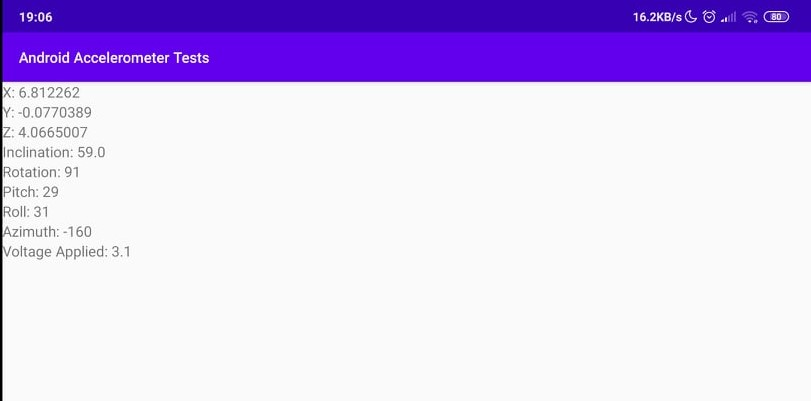
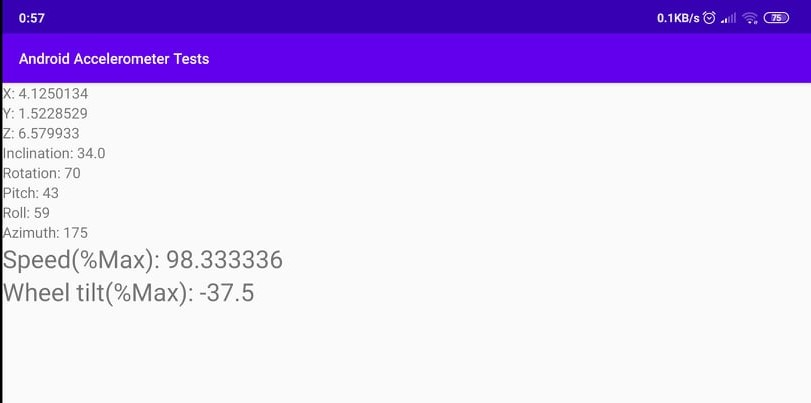
UPDT: Rot. sensor implem + tests

diff --git a/Deliverables/Final/tex/Chap/Testing/test_bluetooth_connection.tex b/Deliverables/Final/tex/Chap/Testing/test_bluetooth_connection.tex
@@ -28,14 +28,14 @@ After turning on Bluetooth on both android (ram) and PC devices (JOAO F), as dep
 %
 \begin{figure}[!ht]
 \centering
-\includegraphics[width=0.9\textwidth]{img/bt_app_pc.png}
-\caption{\label{fig:bt_app_pc}Smartphone as "ram" and PC as "JOAOF" with Bluetooth on}
+\includegraphics[width=0.7\textwidth]{img/bt_app_pc.png}
+\caption{\label{fig:bt_app_pc}Smartphone as "ram" and PC as "JOAOF" with Bluetooth enabled}
 \end{figure}
 %
 \begin{figure}[!ht]
 \centering
-\includegraphics[width=0.5\textwidth]{img/bt_intro_main.png}
-\caption{\label{fig:bt_intro_main}BTapp: Initial and main activities, accordingly}
+\includegraphics[width=0.7\textwidth]{img/bt_intro_main.png}
+\caption{\label{fig:bt_intro_main}BTapp: Initial and main activities, accordingly (Test UI)}
 \end{figure}
 %
 \begin{figure}[!ht]
@@ -48,37 +48,37 @@ To make an initial connection from square one, the smartphone should be discover
 %
 \begin{figure}[!ht]
 \centering
-\includegraphics[width=0.4\textwidth]{img/bt_con_scan_pair_suc.png}
+\includegraphics[width=0.5\textwidth]{img/bt_con_scan_pair_suc.png}
 \caption{\label{fig:bt_con_scan_pair_suc}BTapp and PC: Pressed Scan Devices button, target device pressed and paired successfull message on PC. A PIN number given by the PC must be inserted on app to conclude the pair phase}
 \end{figure}
 %
 \begin{figure}[!hbt]
 \centering
-\includegraphics[width=0.4\textwidth]{img/bt_failed_pair.png}
+\includegraphics[width=0.5\textwidth]{img/bt_failed_pair.png}
 \caption{\label{fig:bt_failed_pair}BTapp: Pair failed examples: Wrong pin number or already paired device}
 \end{figure}
 %
 \begin{figure}[!hbt]
 \centering
-\includegraphics[width=0.5\textwidth]{img/bt_sequence_connect.png}
+\includegraphics[width=0.7\textwidth]{img/bt_sequence_connect.png}
 \caption{\label{fig:bt_sequence_connect}BTapp: Connect phases: List devices pressed, target deviced pressed and successfull display of connection establish toast}
 \end{figure}
 %
 \begin{figure}[!hbt]
 \centering
-\includegraphics[width=0.5\textwidth]{img/bt_sendapp_recpc.png}
+\includegraphics[width=0.8\textwidth]{img/bt_sendapp_recpc.png}
 \caption{\label{fig:bt_sendapp_recpc}BTapp and PC BT server: Successfull message exchanged from android to pc and android echo}
 \end{figure}
 %
 \begin{figure}[!hbt]
 \centering
-\includegraphics[width=0.5\textwidth]{img/bt_sendPC_recAPP.png}
+\includegraphics[width=0.8\textwidth]{img/bt_sendPC_recAPP.png}
 \caption{\label{fig:bt_sendPC_recAPP}BTapp and PC BT server: Successfull message exchanged from pc to android}
 \end{figure}
 %
 \begin{figure}[!hbt]
 \centering
-\includegraphics[width=0.3\textwidth]{img/bt_resending_rereceiving.png}
+\includegraphics[width=0.4\textwidth]{img/bt_resending_rereceiving.png}
 \caption{\label{fig:bt_resending_rereceiving}BTapp: It's possible to resend and receive more than once}
 \end{figure}
 %
@@ -86,11 +86,11 @@ When on the connection setup phase, the scan button was clicked to show the PC t
 
 Lastly, after opening output log terminals to receive app messages on the personal computer virtual machine guest operative system, on the principal menu, in the Enter message section, the messages were typed and then sent via clicking the adjacent send button. The message was then echoed on the phone and conveyed to the target (JOAO F) device, where they were displayed. Figure \ref{fig:bt_sendapp_recpc} show app and PC terminal points of view. Regarding figure \ref{fig:bt_sendPC_recAPP}, the message was written on the terminal and received on the smartphone, respectively. Figure \ref{fig:bt_resending_rereceiving} display final state on the app log after resending a different message as well as obtaining another one via the same source. Note that the PC terminal images already depicts all messages exchanged and show the initial command configuration needed for the test to happen.
 
-On one hand, in the receiving terminal, the first command: \textit{$cd$} \textit{$/media/sf\_ze\_bt\_server$}
-changed the directory to where the server app is located. The second: \textit{$make$} \textit{$all$} \textit{$\&\&$ $./com\_ll$} compile all the source files and run \textit{$com\_ll$}.
+On one hand, in the receiving terminal, the first command:  \emph{cd} \emph{/media/sf\_ze\_bt\_server}
+changed the directory to where the server app is located. The second:  \emph{make all \&\& ./com\_ll} compile all the source files and run \emph{com\_ll}.
 
-On the other hand, in the sending terminal, the current directory was changed to \textit{\textit{$/dev$}} with the command: \textit{$cd$} \textit{$/dev$}
-to navigate to where virtual COM4 (ttyS3) so that messages could be sent through, as exemplified in the instruction: \textit{$echo$ $Msg$ $da$ $VM$} \textit{$> ttyS3$}. 
+On the other hand, in the sending terminal, the current directory was changed to \emph{/dev} with the command:  \emph{cd}  \emph{/dev}
+to navigate to where virtual COM4 (ttyS3) so that messages could be sent through, as exemplified in the instruction:  \emph{echo Msg da VM}  \emph{> ttyS3}. 
 %%% Local Variables:
 %%% mode: latex
 %%% TeX-master: "../../../dissertation"

diff --git a/Deliverables/Final/listing/rotAccess.java b/Deliverables/Final/listing/rotAccess.java
@@ -5,7 +5,7 @@ public class MainActivity extends AppCompatActivity implements SensorEventListen
     private SensorManager sensorManager;
     Sensor rot_sensor;
 
-    TextView x_val, y_val, z_val, inclination, rotation, pitch, roll, azimuth, voltage;
+    TextView x_val, y_val, z_val, inclination, rotation, pitch, roll, azimuth, voltage, wheel_t;
 
     @Override
     protected void onCreate(Bundle savedInstanceState) {
@@ -16,6 +16,7 @@ public class MainActivity extends AppCompatActivity implements SensorEventListen
         roll = (TextView) findViewById(R.id.roll);
         azimuth = (TextView) findViewById(R.id.azimuth);
         voltage = (TextView) findViewById(R.id.voltage_layout);
+		wheel_t = (TextView) findViewById(R.id.wheel_tilt_layout);
 
         Log.d(TAG, "onCreate: Initializing Sensor Services");
         sensorManager = (SensorManager) getSystemService(Context.SENSOR_SERVICE);
@@ -32,8 +33,6 @@ public class MainActivity extends AppCompatActivity implements SensorEventListen
 
             if (mysensor.getType() == Sensor.TYPE_ROTATION_VECTOR) {
                 float[] g = event.values.clone();
-                boolean isInInitialPos = false;
-                boolean thresholdReached = false;
 
                 //Normalise
                 double norm = Math.sqrt(g[0] * g[0] + g[1] * g[1] + g[2] * g[2] + g[3] * g[3]);
@@ -72,19 +71,42 @@ public class MainActivity extends AppCompatActivity implements SensorEventListen
                 int pitchInitialVal = 0;
                 int max_tension = 6;
                 float voltage_ = 0;
+				float wheel_tilt = 0;
+                int max_wheel_tilt = 45;
+                int right_w = 64;
+                int left_w = 56;
+                int init_tilt = 94;
+                int temp_diff = Math.abs(rot - init_tilt);
 
                 if(roll_ > 0)
-                voltage_ = (float) (Math.abs(roll_) * max_tension) / rollThreshold;
-                if(voltage_ > 6)
-                    voltage_ = 6;
+                    voltage_ = (float) (Math.abs(roll_) * max_tension) / rollThreshold;
+                if(voltage_ > max_tension)
+                    voltage_ = max_tension;
                 else if(Math.abs(pitch_) > 70)
                     voltage_ = 0;
+
+                if(rot > init_tilt) {
+                    wheel_tilt = (float) (temp_diff * 100) / left_w;
+                if(wheel_tilt > 100)
+                    wheel_tilt = 100;
+                }
+                else if(rot == init_tilt)
+                    wheel_tilt = 0;
+                else {
+                    wheel_tilt = (float) (temp_diff * 100) / right_w;
+                    if(wheel_tilt > 100)
+                        wheel_tilt = -100;
+                    else
+                        wheel_tilt = -wheel_tilt;
+
+                }
 
                 Log.d(TAG, "onSensorChanged: Voltage_: " + String.format("%s", voltage_));
 
                     pitch.setText(String.format("Pitch: %s", pitch_));
                     roll.setText(String.format("Roll: %s", roll_));
                     azimuth.setText(String.format("Azimuth: %s", azimuth_));
-                    linear_vel.setText(String.format("Voltage Applied: %s", voltage_));
+                    voltage.setText(String.format("Speed(%%Max): %s", voltage_));
+                    wheel_t.setText(String.format("Wheel tilt(%%Max): %s", wheel_tilt));
             }
         }

diff --git a/Deliverables/Final/tex/Chap/Implem/accelerometer-data-access.tex b/Deliverables/Final/tex/Chap/Implem/accelerometer-data-access.tex
@@ -11,7 +11,8 @@ An acceleration sensor measures the acceleration applied to the device but regar
 %
 \lstinputlisting[language=Java,caption={Accelerometer data retrieval code},label=lst:get_accelerometer_vals,style=custom-java]{listing/accelerometerAccess.java}
 %
-As the control module uses both wheels tilt angle and tension applied to the motor as input, the interface with the smartphone's accelerometer wasn't enough. To generate the angles necessary and vary the tension accordingly one needs to access the phone's rotation sensors. This code is implemented in listing \ref{lst:get_rot_vals}. As the interface with the accelerometer, this latter interface needs a \textbf{SensorManager} and the creation of a listener with the \textbf{registerListener} method. Some calibrations were crucial to ensure the calculated values of the angles matched the initial smartphone position chosen.\\
+As the control module uses both wheels tilt angle and tension applied to the motor as input, the interface with the smartphone's accelerometer wasn't enough. To generate the angles necessary and vary the tension accordingly one needs to access the phone's rotation sensors. This code is implemented in listing \ref{lst:get_rot_vals}. As the interface with the accelerometer, this latter interface needs a \textbf{SensorManager} and the creation of a listener with the \textbf{registerListener} method. Some calibrations were crucial to ensure the calculated values of the angles matched the initial smartphone position chosen. Note that percentages were used as a way to implement a control independent of the motor and wheels used. This means that using a percentage of the voltage applied and wheel tilt, one could simply use a 12V or 6V motor, for example. Therefore, the control values would be immutable. This will be tested in secction \ref{sec:accelerometer-using-data-test}.\\
+
 %
 \lstinputlisting[language=Java,caption={Rotation sensor data retrieval code},label=lst:get_rot_vals,style=custom-java]{listing/rotAccess.java}
 %

diff --git a/Deliverables/Final/tex/Chap/Testing/test_accelerometer_vals.tex b/Deliverables/Final/tex/Chap/Testing/test_accelerometer_vals.tex
@@ -16,11 +16,11 @@ As referred in section \ref{sec:using-accelerometer-data}, a ball movement appli
 \caption{\label{fig:ball-mov-test2}Accelerometer ball movement tests - case 2}
 \end{figure}
 %
-As a way to test the code of the interaction with the rotation sensor, the values calculated were displayed on screen to perform a quick analysis, depicted in figure \ref{fig:rot-sens-test}.
+As a way to test the code of the interaction with the rotation sensor, the values calculated were displayed on screen to perform a quick analysis, depicted in figure \ref{fig:rot-sens-test}. One must notice the method used based in control percentage values since it allows the use of different rover components maintaining the way these values are calculated.
 %
 \begin{figure}[!ht]
 \centering
-\includegraphics[width=0.9\textwidth]{img/rot-sensor-tests.png}
+\includegraphics[width=0.7\textwidth]{img/rot-sensor-tests.png}
 \caption{\label{fig:rot-sens-test}Rotation sensor tests}
 \end{figure}
 %
